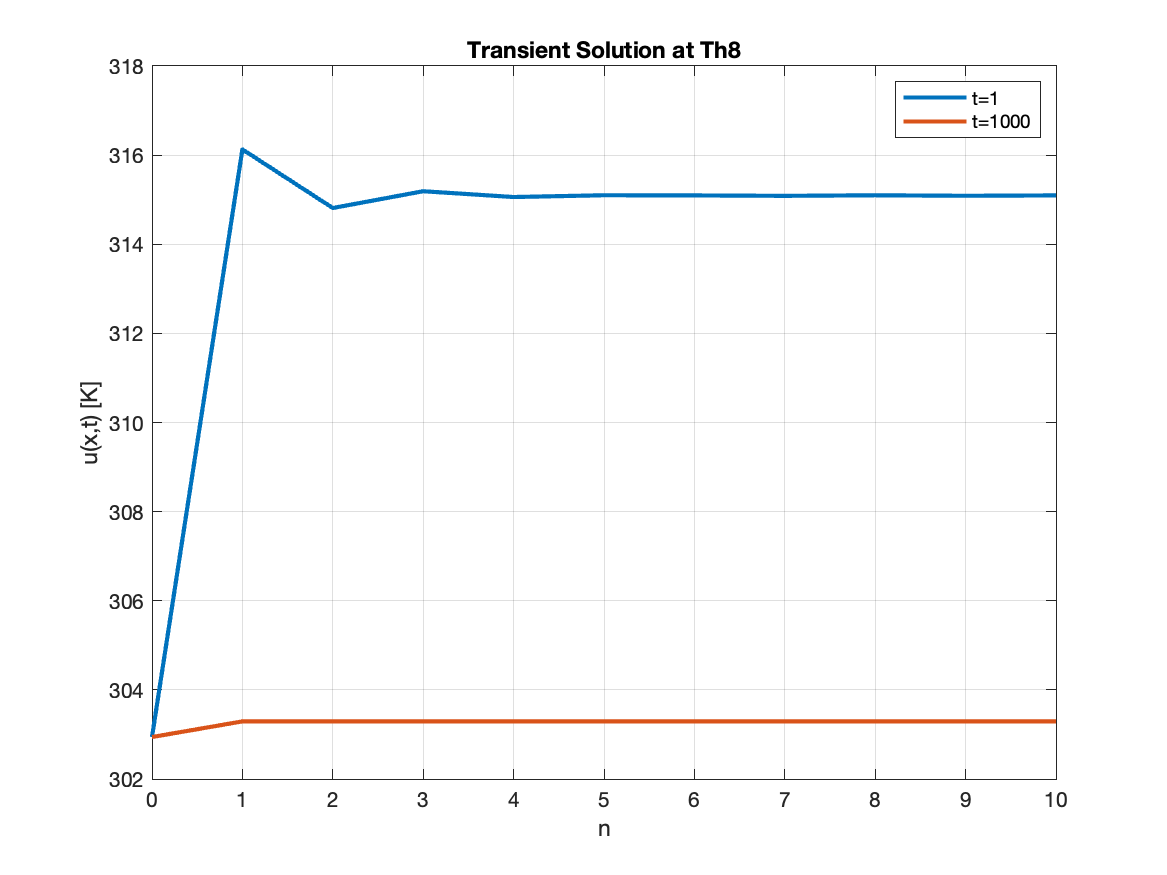
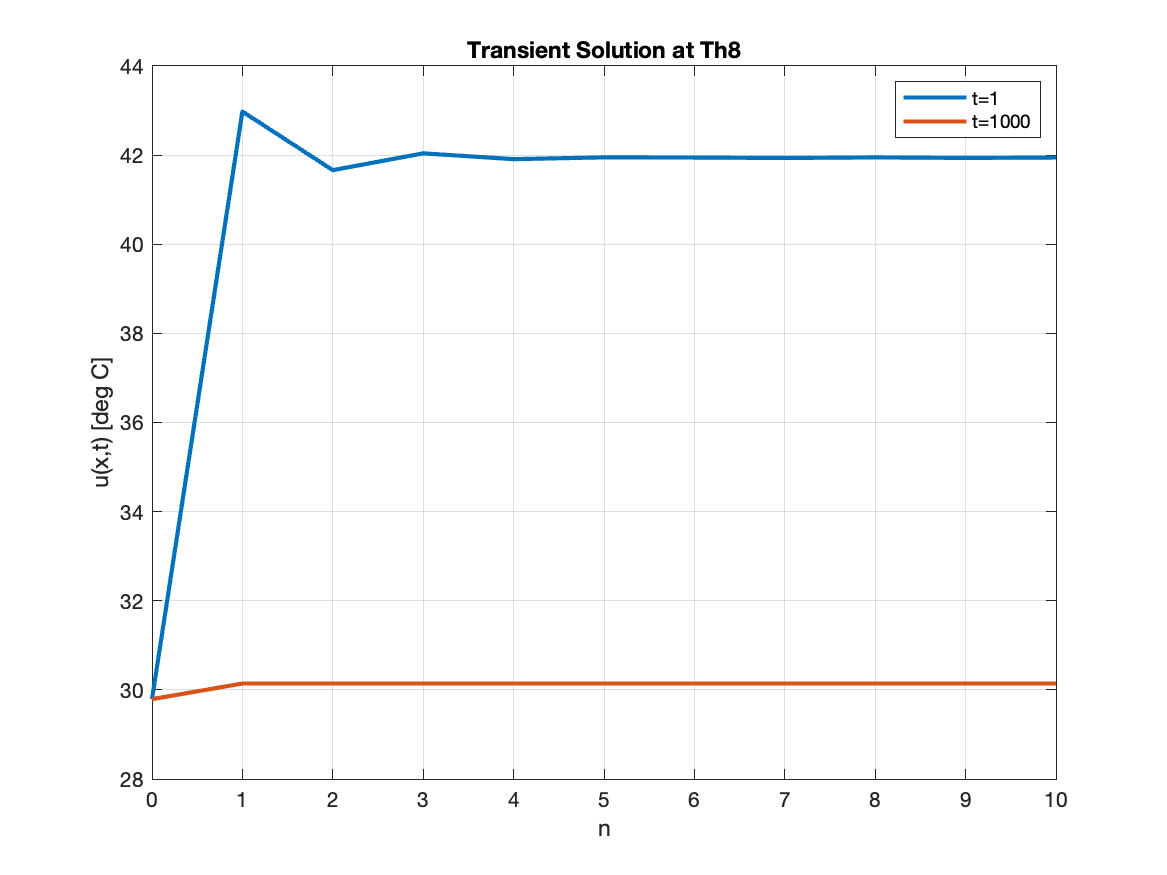
Task 2

diff --git a/filereadin.m b/filereadin.m
@@ -148,9 +148,9 @@ for i=1:5
 
         %transient solution 
         %time = 0s
-        u1 = T0(i) + (H_an(i).*tc_loc(end)) + series1;
+        u1 = (T0(i) + (H_an(i).*tc_loc(end)) + series1) - 273.15; %converted to degC
         %time = 1000s
-        u2 = T0(i) + (H_an(i).*tc_loc(end)) + series2;
+        u2 = (T0(i) + (H_an(i).*tc_loc(end)) + series2) - 273.15; %converted to degC
 
         %plotting u(x,t) vs n
         figure;
@@ -159,7 +159,7 @@ for i=1:5
         grid on;
         plot((0:10),u2,LineWidth=2)
         xlabel('n')
-        ylabel('u(x,t) [K]')
+        ylabel('u(x,t) [deg C]')
         title('Transient Solution at Th8')
         legend('t=1','t=1000')
 
@@ -168,13 +168,28 @@ for i=1:5
         saveas(gcf,fname,'png')
 
         %% Part 2 Task 2
+        %chosen n value: n=6
+
+        time = data(:,1);
+        series = zeros(length(time),7);
+
+        for t=1:length(time) % over time 
+            for tc=1:length(tc_loc)% each x of thermocouple
+                for n=1:6
+                    %calculate b_n
+                    b_n(n) = ((-1.^n).*(-8).*rod_length.*H_an(i))./((pi.^2).*(((2.*(n))-1).^2));
+                    %calculate lambda_n
+                    lambda_n(n) = (((2*n)-1)*pi)/(2*rod_length);
+                    %calculate series
+                    series(t,n+1) = series(n) + b_n(n).*sin(lambda_n(n).*tc_loc(tc)).*exp(-1.*(lambda_n(n).^2).*alpha(1).*time(t));
+                end
+                u_Al_25(t,tc) = T0_init(i) + (H_an(i).*tc_loc(tc)) + series1(t);
+            end
+       
+        end
+
         
-        % for n=1:length(l_steady)
-        %     series1(n+1) = series1(n) + b_n(n).*sin(lambda_n(n).*l_steady(n)).*exp(-1.*(lambda_n(n).^2).*alpha(1).*time1);
-        % end
-        % 
-        % new_u = T0_init(i) + (H_an(i).*tc_loc) + series1;
-        % 
+
         % %plotting u(x,t) against all tc loc
         % figure;
         % plot(tc_loc,new_u,LineWidth=2)
